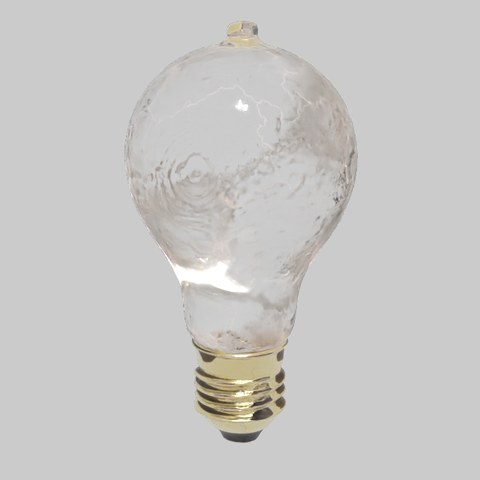
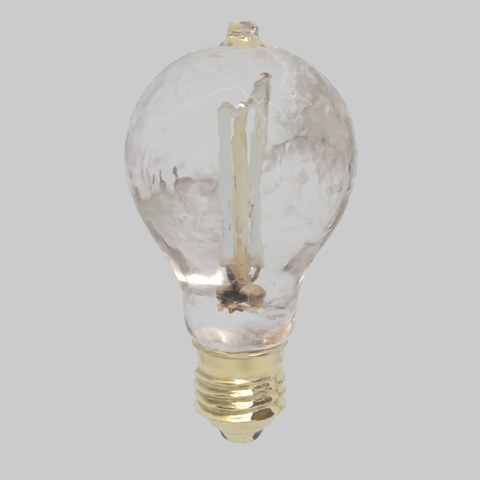
Stained glass keeps its colours, glass tint in parts list, inner structure of transparent parts
- finish_maps: glass with a high hue spread (stained glass) keeps baked colour, half transmission
- glass tint stored per part, used by the web viewer as absorption and surface colour
- interior.py: opaque gaussians deep under transmissive surfaces become /Asset/Interior
  (filaments, wicks, dip tubes); wired into flow_batch and export_parts
- export_parts no longer picks up the interior texture for the object's parts
- web v9

Claude-Session: https://claude.ai/code/session_01ShCsYzpi7wuwmF3CBAZNXx

diff --git a/splat2mesh/interior.py b/splat2mesh/interior.py
@@ -1,0 +1,145 @@
+"""Inner structure of transparent objects (filaments, wicks, liquids, ships in bottles).
+
+Direct mode builds one closed solid, so whatever the generator put *inside* a glass part disappears in it.
+The splat still has it: opaque gaussians well inside the shell, under a transmissive surface. They are
+meshed on their own (opacity field → marching cubes), unwrapped, baked from the same gaussians and added to
+the asset as `/Asset/Interior` with its own texture. Nothing here is object specific: an object without
+transmissive parts, or with nothing inside them, is left untouched.
+
+    python -m splat2mesh.interior ASSET_DIR SPLAT.ply [--y-down]
+"""
+import argparse
+import json
+from pathlib import Path
+
+import numpy as np
+import trimesh
+from PIL import Image
+
+from .direct import bake_direct, extract, load_gaussians, opacity_field
+from .geometry import decimate
+from .rerender import load_usd_textured
+from .texture import inpaint, rasterize_uv, unwrap
+
+
+def find_inside(asset: Path, xyz, alpha, rgb, min_depth: float = 0.08, min_alpha: float = 0.3, min_trans: float = 0.4,
+                min_colour_diff: float = 0.0):
+    """Gaussians at least `min_depth` (fraction of the object's size) inside the shell whose closest surface
+    is transmissive."""
+    V, F, st, _ = load_usd_textured(str(asset / "asset.usda"))
+    T = np.asarray(Image.open(asset / "transmission.png"), np.float32)[::-1] / 255
+    if T.ndim == 3:
+        T = T[..., 0]
+    R = T.shape[0]
+    cen = st[F].mean(1)
+    face_t = T[np.clip((cen[:, 1] * R).astype(int), 0, R - 1), np.clip((cen[:, 0] * R).astype(int), 0, R - 1)]
+    if (face_t >= min_trans).mean() < 0.02:
+        return None, V, F
+    mesh = trimesh.Trimesh(V, F, process=False)
+    pq = trimesh.proximity.ProximityQuery(mesh)
+    size = np.linalg.norm(V.max(0) - V.min(0))
+    probe = np.random.default_rng(0).choice(len(xyz), min(3000, len(xyz)), replace=False)
+    if np.median(pq.on_surface(xyz[probe])[1]) > 0.02 * size:     # splat and mesh not in the same frame: skip
+        return None, V, F
+    cand = np.nonzero(alpha > min_alpha)[0]
+    _, dist, tri = pq.on_surface(xyz[cand])
+    deep = dist > min_depth * size
+    cand, tri = cand[deep], tri[deep]
+    if len(cand) == 0:
+        return cand, V, F
+    inside = mesh.contains(xyz[cand]) if mesh.is_watertight else pq.signed_distance(xyz[cand]) > 0
+    sel = cand[inside & (face_t[tri] >= min_trans)]
+    # the glass seen through the glass (refraction Idol paints into the volume) has the glass's own colour:
+    # only what differs from it is inner structure
+    if len(sel):
+        from .materials import _srgb_to_lab
+        base = np.asarray(Image.open(asset / "basecolor_delit.png").convert("RGB"), np.float32)[::-1] / 255
+        glass = _srgb_to_lab(np.median(base[T >= min_trans], 0)[None])[0]
+        sel = sel[np.linalg.norm(_srgb_to_lab(rgb[sel]) - glass, axis=1) > min_colour_diff]
+    return sel, V, F
+
+
+def extract_interior(asset_dir, ply, y_down: bool = False, res: int = 384, faces: int = 30000,
+                     tex_res: int = 1024, min_gaussians: int = 300) -> dict:
+    asset = Path(asset_dir)
+    xyz, scale, R, inv, alpha, rgb = load_gaussians(ply, y_down=y_down)
+    sel, V, F = find_inside(asset, xyz, alpha, rgb)
+    out = {"inside_gaussians": 0 if sel is None else int(len(sel))}
+    if sel is None or len(sel) < min_gaussians:
+        (asset / "interior.npz").unlink(missing_ok=True)
+        return out
+    occ, lo, step = opacity_field(xyz[sel], scale[sel], inv[sel], alpha[sel], res=res)
+    try:
+        tm = extract(occ, lo, step, level=0.4, close_iters=0, blur=0.5, fill=False)
+    except (ValueError, RuntimeError):          # nothing above the level: no inner structure
+        tm = None
+    if tm is None or len(tm.faces) < 50:
+        (asset / "interior.npz").unlink(missing_ok=True)
+        return out
+    if len(tm.faces) > faces:
+        tm = decimate(tm, faces)
+    vmap, fi, uv, _ = unwrap(tm, tex_res)
+    Vi, Fi = np.asarray(tm.vertices)[vmap], fi
+    Ni = np.asarray(trimesh.Trimesh(Vi, Fi, process=False).vertex_normals)
+    pos, nrm, mask = rasterize_uv(Vi, Fi, uv, Ni, tex_res)
+    tex, known = bake_direct(pos, nrm, mask, xyz[sel], inv[sel], alpha[sel], rgb[sel])
+    tex = inpaint(tex, known)
+    Image.fromarray((tex[::-1].clip(0, 1) * 255).astype(np.uint8)).save(asset / "interior_texture.png")
+    np.savez_compressed(asset / "interior.npz", V=Vi.astype(np.float32), F=Fi.astype(np.int32),
+                        st=uv.astype(np.float32), N=Ni.astype(np.float32))
+    out.update(faces=int(len(Fi)), vertices=int(len(Vi)))
+    add_to_usd(asset / "asset.usda", asset)
+    if (asset / "asset_parts.usda").exists():
+        from .materials import export_parts
+        export_parts(asset); export_parts(asset, "asset_materials.usda", group="material")
+    return out
+
+
+def define_interior(stage, path: str, asset: Path, mat_path: str):
+    """Mesh + simple textured non-metal material for the interior; returns the mesh (None if no interior)."""
+    from pxr import Gf, Sdf, UsdGeom, UsdShade, Vt
+    f = asset / "interior.npz"
+    if not f.exists():
+        return None
+    z = np.load(f)
+    mesh = UsdGeom.Mesh.Define(stage, path)
+    mesh.CreatePointsAttr(Vt.Vec3fArray.FromNumpy(z["V"]))
+    mesh.CreateFaceVertexCountsAttr(Vt.IntArray.FromNumpy(np.full(len(z["F"]), 3, np.int32)))
+    mesh.CreateFaceVertexIndicesAttr(Vt.IntArray.FromNumpy(z["F"].ravel()))
+    mesh.CreateSubdivisionSchemeAttr(UsdGeom.Tokens.none)
+    mesh.CreateNormalsAttr(Vt.Vec3fArray.FromNumpy(z["N"])); mesh.SetNormalsInterpolation(UsdGeom.Tokens.vertex)
+    lo, hi = z["V"].min(0), z["V"].max(0)
+    mesh.CreateExtentAttr([Gf.Vec3f(*map(float, lo)), Gf.Vec3f(*map(float, hi))])
+    UsdGeom.PrimvarsAPI(mesh).CreatePrimvar("st", Sdf.ValueTypeNames.TexCoord2fArray, UsdGeom.Tokens.vertex).Set(
+        Vt.Vec2fArray.FromNumpy(z["st"]))
+    mat = UsdShade.Material.Define(stage, mat_path)
+    pbr = UsdShade.Shader.Define(stage, mat_path + "/PreviewSurface"); pbr.CreateIdAttr("UsdPreviewSurface")
+    rd = UsdShade.Shader.Define(stage, mat_path + "/stReader"); rd.CreateIdAttr("UsdPrimvarReader_float2")
+    rd.CreateInput("varname", Sdf.ValueTypeNames.String).Set("st")
+    t = UsdShade.Shader.Define(stage, mat_path + "/BaseColor"); t.CreateIdAttr("UsdUVTexture")
+    t.CreateInput("file", Sdf.ValueTypeNames.Asset).Set("interior_texture.png")
+    t.CreateInput("sourceColorSpace", Sdf.ValueTypeNames.Token).Set("sRGB")
+    t.CreateInput("st", Sdf.ValueTypeNames.Float2).ConnectToSource(rd.ConnectableAPI(), "result")
+    t.CreateOutput("rgb", Sdf.ValueTypeNames.Float3)
+    pbr.CreateInput("diffuseColor", Sdf.ValueTypeNames.Color3f).ConnectToSource(t.ConnectableAPI(), "rgb")
+    pbr.CreateInput("roughness", Sdf.ValueTypeNames.Float).Set(0.45)
+    pbr.CreateInput("metallic", Sdf.ValueTypeNames.Float).Set(0.0)
+    mat.CreateSurfaceOutput().ConnectToSource(pbr.ConnectableAPI(), "surface")
+    UsdShade.MaterialBindingAPI.Apply(mesh.GetPrim()).Bind(mat)
+    mesh.GetPrim().SetCustomDataByKey("splat2mesh:material", "interior")
+    return mesh
+
+
+def add_to_usd(usd_path: Path, asset: Path):
+    from pxr import Usd
+    st = Usd.Stage.Open(str(usd_path))
+    st.RemovePrim("/Asset/Interior"); st.RemovePrim("/Asset/Materials/M_interior")
+    define_interior(st, "/Asset/Interior", asset, "/Asset/Materials/M_interior")
+    st.GetRootLayer().Save()
+
+
+if __name__ == "__main__":
+    ap = argparse.ArgumentParser()
+    ap.add_argument("asset"); ap.add_argument("ply"); ap.add_argument("--y-down", action="store_true")
+    a = ap.parse_args()
+    print(json.dumps(extract_interior(a.asset, a.ply, a.y_down)))

diff --git a/splat2mesh/materials.py b/splat2mesh/materials.py
@@ -501,6 +501,7 @@ def export_parts(asset_dir, out_name: str = "asset_parts.usda", group: str = "pa
     src = Usd.Stage.Open(str(asset / "asset.usda"))
     N = np.asarray(UsdGeom.Mesh(src.GetPrimAtPath("/Asset/Geom")).GetNormalsAttr().Get(), np.float32)
     tex, mask = _texture_and_mask(asset)
+    fin = json.loads((asset / "mat" / "finish.json").read_text()) if (asset / "mat" / "finish.json").exists() else {}
     R = tex.shape[0]
     cen = st[F].mean(1)
     px = np.clip((cen * R).astype(int), 0, R - 1)
@@ -523,7 +524,7 @@ def export_parts(asset_dir, out_name: str = "asset_parts.usda", group: str = "pa
     # files referenced by the single-material version
     files = {}
     for prim in src.Traverse():
-        if prim.GetTypeName() == "Shader":
+        if prim.GetTypeName() == "Shader" and "M_interior" not in str(prim.GetPath()):
             f = UsdShade.Shader(prim).GetInput("file")
             if f and f.Get():
                 files[prim.GetName()] = f.Get().path
@@ -575,10 +576,19 @@ def export_parts(asset_dir, out_name: str = "asset_parts.usda", group: str = "pa
         mat.CreateSurfaceOutput().ConnectToSource(pbr.ConnectableAPI(), "surface")
         UsdShade.MaterialBindingAPI.Apply(mesh.GetPrim()).Bind(mat)
         mesh.GetPrim().SetCustomDataByKey("splat2mesh:material", cls)
-        L = _lib(cls)
+        L = {**_lib(cls), **fin.get(cls, {})}
         parts[k] = {"material": cls, "faces": int(len(fi)), "transmission": L.get("transmission", 0.0),
+                    "patterned": bool(L.get("patterned", False)), "tint": L.get("tint"),
                     "subsurface": L.get("subsurface", 0.0), "ior": L.get("ior"), "roughness": L.get("roughness"),
                     "metallic": L.get("metallic", 0)}
+    if (asset / "interior.npz").exists():      # inner structure of transparent parts (see interior.py)
+        from .interior import define_interior
+        grp = f"/Asset/{'Parts' if group == 'part' else 'MaterialGroups'}"
+        UsdGeom.Xform.Define(st_out, f"{grp}/interior")
+        im = define_interior(st_out, f"{grp}/interior/Geom", asset, "/Asset/Materials/M_interior")
+        parts["interior"] = {"material": "interior", "faces": len(im.GetFaceVertexCountsAttr().Get()), "transmission": 0.0,
+                             "patterned": False, "tint": None, "subsurface": 0.0, "ior": None, "roughness": 0.45,
+                             "metallic": 0}
     st_out.GetRootLayer().Save()
     (asset / ("parts.json" if group == "part" else "material_groups.json")).write_text(json.dumps(parts, indent=1))
     return parts
@@ -697,6 +707,9 @@ def smooth_shading_normals(asset_dir, cls_tex, names) -> int:
     return it
 
 
+GLASS_PATTERN_SPREAD = 12.0   # Lab a*b* median distance; above it the glass is multi-coloured (stained glass)
+
+
 def finish_maps(asset_dir, cls_tex, names, metal_detail: float = 0.35) -> dict:
     """Second pass over the per-texel classes: physical base colour for metals (library F0 × the texture's own
     luminance detail, so engraving/hammering stays), transmission & subsurface maps, opacity for the preview
@@ -732,12 +745,21 @@ def finish_maps(asset_dir, cls_tex, names, metal_detail: float = 0.35) -> dict:
             detail = np.exp(0.9 * hp_cache["hp"][sel])
             detail = np.clip(detail, 0.55, 1.0 / f0.max())
             base[sel] = srgb(f0[None] * detail[:, None])
-        if L.get("transmission", 0) > 0:      # glass: what the splat shows is the background seen through it
-            tint = np.median(lin(base[sel]), 0)
-            tint = tint / max(tint.max(), 1e-4) * 0.95            # keep the hue, drop the frozen brightness
-            base[sel] = srgb(tint)[None]
-        T[sel] = L.get("transmission", 0.0); S[sel] = L.get("subsurface", 0.0)
-        info[cls] = {"transmission": L.get("transmission", 0.0), "subsurface": L.get("subsurface", 0.0),
+        trans = L.get("transmission", 0.0); patterned = False; tint = None
+        if trans > 0:      # glass: what the splat shows is mostly the background seen through it
+            ab = _srgb_to_lab(base[sel])[:, 1:]
+            spread = float(np.median(np.hypot(*(ab - np.median(ab, 0)).T)))   # hue diversity of the glass texels
+            patterned = spread > GLASS_PATTERN_SPREAD     # stained / multi-coloured glass: the colours are the object
+            print(f"glass {cls}: colour spread {spread:.1f} → {'patterned (colour kept)' if patterned else 'uniform tint'}")
+            if patterned:
+                trans = trans * 0.5                       # coloured glass lets less light through, shows its colours
+            else:
+                tint = np.median(lin(base[sel]), 0)
+                tint = tint / max(tint.max(), 1e-4) * 0.95        # keep the hue, drop the frozen brightness
+                base[sel] = srgb(tint)[None]
+        T[sel] = trans; S[sel] = L.get("subsurface", 0.0)
+        info[cls] = {"transmission": trans, "subsurface": L.get("subsurface", 0.0), "patterned": patterned,
+                     "tint": None if tint is None else [round(float(x), 4) for x in tint],   # linear RGB
                      "thin_walled": L.get("thin_walled", False), "ior": L.get("ior")}
     from .texture import inpaint
     for name, img in (("transmission", T), ("subsurface", S)):
@@ -751,6 +773,7 @@ def finish_maps(asset_dir, cls_tex, names, metal_detail: float = 0.35) -> dict:
     iors = [v["ior"] for v in info.values() if v["ior"]]
     _usd_add_mtlx(asset / "asset.usda", has_t, has_s, ior=float(np.median(iors)) if iors else 1.5,
                   thin=any(v["thin_walled"] and v["transmission"] > 0 for v in info.values()))
+    (asset / "mat" / "finish.json").write_text(json.dumps(info, indent=1, default=float))
     return {"transmissive": has_t, "subsurface": has_s, "classes": info}
 
 

diff --git a/scripts/export_web.py b/scripts/export_web.py
@@ -27,7 +27,7 @@ def make_usdz(src: Path, dst: Path, usd_name: str = "asset.usda") -> dict:
                 srcfile = (src / p).resolve()
                 name = srcfile.name
                 im = Image.open(srcfile)
-                if name.startswith("basecolor"):           # colour: PNG (three's USDZLoader reads PNG only), ≤ 3072²
+                if name.startswith(("basecolor", "interior")):           # colour: PNG (three's USDZLoader reads PNG only), ≤ 3072²
                     if not (tmp / name).exists():
                         w = min(im.width, 3072)
                         im.convert("RGB").resize((w, w), Image.LANCZOS).save(tmp / name, optimize=True)
@@ -204,14 +204,18 @@ function view(el) {{
       const p = parts[o.name] || (o.parent && parts[o.parent.name]);
       if (!p) return;
       const m = o.material;
-      if (p.transmission > 0) {{          // glass / crystal: physical transmission (USDZLoader has no opacity)
+      if (p.transmission > 0 && p.patterned) {{   // stained / multi-coloured glass: its colours are the texture
+        o.material = new THREE.MeshPhysicalMaterial({{ map: m.map, metalness: 0, roughness: Math.min(p.roughness ?? 0.05, 0.1),
+          transmission: p.transmission, ior: p.ior || 1.5, thickness: 0.02, side: THREE.DoubleSide, envMapIntensity: 1.0 }});
+      }} else if (p.transmission > 0) {{          // glass / crystal: physical transmission (USDZLoader has no opacity)
         // tint from the part's texture (median colour), thin-ish glass, absorption tint over a short distance
         let tint = new THREE.Color(0xffffff);
-        if (m.map && m.map.image) {{ try {{ const c = document.createElement("canvas"); c.width = c.height = 16;
+        if (p.tint) tint = new THREE.Color().setRGB(p.tint[0], p.tint[1], p.tint[2], THREE.LinearSRGBColorSpace);
+        else if (m.map && m.map.image) {{ try {{ const c = document.createElement("canvas"); c.width = c.height = 16;
           const x = c.getContext("2d"); x.drawImage(m.map.image, 0, 0, 16, 16); const d = x.getImageData(0, 0, 16, 16).data;
           let r = 0, g2 = 0, b = 0; for (let i = 0; i < d.length; i += 4) {{ r += d[i]; g2 += d[i + 1]; b += d[i + 2]; }}
           const n = d.length / 4, mx = Math.max(r, g2, b) / n || 1; tint = new THREE.Color(r / n / mx, g2 / n / mx, b / n / mx); }} catch (e) {{}} }}
-        o.material = new THREE.MeshPhysicalMaterial({{ color: 0xffffff, metalness: 0, roughness: Math.min(p.roughness ?? 0.03, 0.08),
+        o.material = new THREE.MeshPhysicalMaterial({{ color: tint.clone().lerp(new THREE.Color(1, 1, 1), 0.35), metalness: 0, roughness: Math.min(p.roughness ?? 0.03, 0.08),
           transmission: 1, ior: p.ior || 1.5, thickness: 0.04, attenuationColor: tint, attenuationDistance: 0.25,
           side: THREE.DoubleSide, specularIntensity: 1, envMapIntensity: 1.2 }});
       }} else if (p.subsurface > 0) {{    // jade, wax, marble: a soft sheen of transmission as a cheap subsurface look

diff --git a/splat2mesh/direct.py b/splat2mesh/direct.py
@@ -73,7 +73,8 @@ def opacity_field(xyz, scale, inv, alpha, res: int = 320, pad: float = 0.05, max
     return occ, lo, step
 
 
-def extract(occ, lo, step, level: float = 0.5, close_iters: int = 3, blur: float = 0.8) -> trimesh.Trimesh:
+def extract(occ, lo, step, level: float = 0.5, close_iters: int = 3, blur: float = 0.8,
+            fill: bool = True) -> trimesh.Trimesh:
     """Solid = (occ > level), closed (bridges gaps between flat gaussians), interior cavities filled,
     only the largest connected solid kept; the surface is taken on a lightly blurred solid so it stays
     smooth, then marching cubes. Result: one closed shell."""
@@ -83,7 +84,8 @@ def extract(occ, lo, step, level: float = 0.5, close_iters: int = 3, blur: float
     if close_iters:
         solid = ndi.binary_closing(np.pad(solid, close_iters), iterations=close_iters)[
             close_iters:-close_iters, close_iters:-close_iters, close_iters:-close_iters]
-    solid = ndi.binary_fill_holes(solid)
+    if fill:
+        solid = ndi.binary_fill_holes(solid)
     lab, n = ndi.label(solid)
     if n > 1:
         sizes = ndi.sum(solid, lab, range(1, n + 1))

diff --git a/scripts/compose_gallery.py b/scripts/compose_gallery.py
@@ -1,0 +1,17 @@
+"""Gallery image (8×4) from the athenea stills of the four test sets."""
+import numpy as np
+from PIL import Image
+fs = [f"out/stills/{s}_v5_0{i}.png" for s in ("testset", "testset2", "testset3", "testset4") for i in range(8)]
+cell, cols = 270, 8
+g = Image.new("RGB", (cols * cell, 4 * cell), (204, 204, 204))
+for k, f in enumerate(fs):
+    im = Image.open(f).convert("RGB"); a = np.asarray(im).astype(int); bg = tuple(int(v) for v in a[2, 2])
+    ys, xs = np.nonzero(np.abs(a - np.array(bg)).sum(-1) > 18)
+    cy, cx = (ys.min() + ys.max()) // 2, (xs.min() + xs.max()) // 2
+    h = int(max(ys.max() - ys.min(), xs.max() - xs.min()) * 0.62 + 10)
+    c = Image.new("RGB", (2 * h, 2 * h), bg); c.paste(im, (h - cx, h - cy))
+    g.paste(c.resize((cell, cell), Image.LANCZOS), ((k % cols) * cell, (k // cols) * cell))
+g.save("docs/img/gallery.jpg", quality=88)
+for n, f in (("bulb", "out/stills/testset3_v5_00.png"), ("jade", "out/stills/testset3_v5_04.png")):
+    Image.open(f).convert("RGB").resize((480, 480), Image.LANCZOS).save(f"docs/img/{n}.jpg", quality=88)
+print("gallery ok")

diff --git a/scripts/flow_batch.py b/scripts/flow_batch.py
@@ -74,6 +74,11 @@ for d in items:
     t = time.time()
     p = subprocess.run([sys.executable, str(ROOT / "scripts/materials_eneas3d.py"), str(out / d.name / "usd"),
                         str(d / "idol_input.png"), desc], capture_output=True, text=True)
+    from splat2mesh.interior import extract_interior          # filaments, wicks… inside glass parts
+    try:
+        print(d.name, "interior", extract_interior(out / d.name / "usd", d / f"{d.name}.ply", y_down=True), flush=True)
+    except Exception as e:
+        print(d.name, "interior skipped:", e, flush=True)
     tail = [l for l in p.stdout.splitlines() if l.startswith("{'seen_texels'")]
     summary[d.name] = {"prompt": prompts[int(d.name)], "description": desc, "result": tail[-1] if tail else p.stderr[-500:],
                        "seconds": round(time.time() - t)}

diff --git a/docs/TUTORIAL.md b/docs/TUTORIAL.md
@@ -85,7 +85,16 @@ For every object:
      log-luminance): hammering and engraving stay, frozen reflections go;
    - *the side Idol invented* (whatever the input picture did not show) is lifted to the brightness of the same
      material on the seen side when it came out much darker (dark backs, black bases);
-   - *glass, crystal, jade and wax* objects get their vertex positions smoothed as well.
+   - *glass, crystal, jade and wax* objects get their vertex positions smoothed as well;
+   - *glass colour*: a glass whose texels share one hue (clear, blue, green bottle) gets one uniform tint, stored in
+     the part list so viewers can use it as absorption; a glass whose texels vary strongly in hue (Lab a\*b\* spread
+     above 12: Tiffany shades, stained glass) keeps its baked colours with half transmission. Measured on the test
+     set: single-colour glass 0.5–5.7, stained glass 15–20.
+
+9. **What is inside the glass** (`splat2mesh/interior.py`): direct mode makes one solid, so a filament, a wick or a
+   dip tube would vanish inside it. The splat still has them — opaque gaussians well inside the shell (more than 8 %
+   of the object size) under a transmissive surface. They are meshed on their own, unwrapped, baked and added as
+   `/Asset/Interior` (and as an `interior` part). Objects without glass, or with nothing inside it, are untouched.
 
 What lands in the USD:
 
@@ -122,7 +131,8 @@ Next to `asset.usda` the flow writes:
 ## 6. What still goes wrong
 
 - Idol paints what it cannot see: dark undersides, refraction baked as colour on glass.
-- Direct mode fills solids: a light bulb is solid glass, a vase has no inside.
+- Direct mode fills solids: a vase has no inside, a bottle no liquid surface. What sits inside glass is recovered
+  (filaments, wicks), but as Idol made it: flat ribbons rather than wires.
 - Parts below a few pixels (filaments, eyelids, corks) are often missed; colour priors only cover metals and rubber.
 - A part the segmenter misses and that is not a metal or rubber (a rosewood stand under jade) takes the main material.
 - Dark glass the segmenter misses (car windows) is taken by the near-black rubber prior.

diff --git a/LOOP.md b/LOOP.md
@@ -103,3 +103,6 @@ USDZ for every model, everything committed + pushed, complete tutorial, and an a
   nacre panel, jade dragon's rosewood stand.
 - 02:25 Disk full again (0–2 GB; something outside the project keeps filling it). Set 5 images generated (data/testset5) but not processed; priority to the final deliverables.
 - 03:35 Car windows: tried splitting colour regions by height so dark windows on top would not become rubber — reverted: object-specific rule, not generic (user: «eso es hacer trampa»). Car windows stay a known limitation: ENEAS does not find them, the dark-colour prior takes them as rubber.
+- 04:10 Stained glass: glass finish used one median tint for every glass texel → Tiffany shade came out clear. Generic rule: Lab a*b* spread of the glass texels > 12 keeps the baked colours (half transmission). Measured: uniform glass 0.5–5.7, stained 15–20. Glass tint now written to parts.json (viewer was averaging the whole atlas → blue bottle looked clear).
+- 04:40 Interior of transparent parts (interior.py): opaque gaussians > 8 % deep under a transmissive surface are meshed separately → bulb filament, perfume dip tube, lantern wick. 3 % depth picked up the back wall seen through the front (perfume blobs); a colour-difference filter thinned the filament and did not remove them → depth only.
+- 05:05 Bug: export_parts collected texture files by shader name, so M_interior's BaseColor replaced the object's in the parts USD (brass turned white-spotted on the web). Interior shaders skipped. Web v9.
